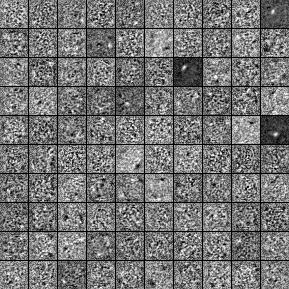
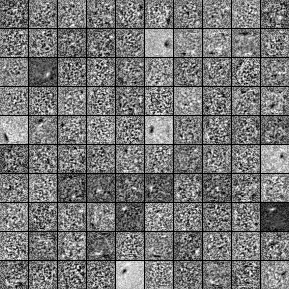
modified all but errors

diff --git a/liir/nlp/ml/nn/base/DenoisingAutoEncoderEx.py b/liir/nlp/ml/nn/base/DenoisingAutoEncoderEx.py
@@ -1,0 +1,109 @@
+from liir.nlp.ml.nn.base.DenoisingAutoEncoder import DenoisingAutoEncoder
+
+__author__ = 'quynhdo'
+import theano as th
+from liir.nlp.ml.nn.base.AutoEncoder import AutoEncoder
+from liir.nlp.ml.classifiers.linear.logistic import load_data
+try:
+    import PIL.Image as Image
+except ImportError:
+    import Image
+from liir.nlp.ml.classifiers.linear.utils import tile_raster_images
+from liir.nlp.ml.nn.base.Layer  import Layer,DenoisingLayer
+from liir.nlp.ml.nn.base.NNNet  import NNNet
+from liir.nlp.ml.nn.base.Functions import CrossEntroyCostFunction
+from theano.tensor.shared_randomstreams import RandomStreams
+import theano.tensor as T
+import numpy as np
+
+import timeit
+
+class DenoisingAutoEncoderEx(DenoisingAutoEncoder):
+    def __init__(self,nIn=700, nHidden=500, corruption_level=0.1,id="", initial_w=None, initial_b=None,input=None, input_type="matrix", output=None, output_type="matrix",cost_function=CrossEntroyCostFunction, full_x=None, knowledge = None):
+
+        DenoisingAutoEncoder.__init__(self,nIn, nHidden, corruption_level, id, initial_w, initial_b, input, input_type, output, output_type, cost_function)
+        if full_x is None:
+
+            self.full_x = T.matrix(name='full_input')
+        else:
+            self.full_x = full_x
+
+        if knowledge != None:
+            self.knowledge = knowledge
+        else:
+            self.knowledge = None
+
+        self.L=None
+
+    def get_cost_updates(self,learning_rate):
+        cost = self.cost_function(self.layers[len(self.layers)-1].output , self.y)
+        if self.L is not None:
+            cost = cost + self.L
+
+        if self.knowledge is not None:
+            for p in self.knowledge.eval()['pair']:
+                h1= self.getHiddenValue(p[0])
+                h2= self.getHiddenValue(p[1])
+                cost = cost + T.mean ((h1-h2)**2)
+
+        gparams = T.grad(cost, self.params)
+
+        updates = [
+            (param, param - learning_rate * gparam)
+            for param, gparam in zip(self.params, gparams)
+        ]
+
+        return (cost, updates)
+
+    def fit(self, train_data,  batch_size, training_epochs, learning_rate, ):
+
+        index = T.lscalar()
+      #  x = T.matrix('x')
+     #   if (self.connections[len(self.connections)-1].otype == Connection.Output_Type_SoftMax):
+     #       y = T.ivector('y')
+
+      #  if (self.connections[len(self.connections)-1].otype == Connection.Output_Type_Binary):
+      #      y = T.iscalar('y')
+      #  if (self.connections[len(self.connections)-1].otype == Connection.Output_Type_Real):
+       # y = T.matrix('y')
+
+        cost,updates=self.get_cost_updates(learning_rate)
+        train_da = th.function(
+        [index],
+        cost,
+        updates=updates,
+        givens={
+            self.x: train_data[index * batch_size: (index + 1) * batch_size],
+            self.y: train_data[index * batch_size: (index + 1) * batch_size],
+            self.knowledge : train_data
+            }
+        )
+        n_train_batches = (int) (train_data.get_value(borrow=True).shape[0] / batch_size)
+
+     #   n_train_batches =2
+        start_time = timeit.default_timer()
+        for epoch in range(training_epochs):
+        # go through trainng set
+            c = []
+            for batch_index in range(int(n_train_batches)):
+                c.append(train_da(batch_index))
+
+            print ('Training epoch %d, cost ' % epoch, np.mean(c))
+
+        end_time = timeit.default_timer()
+
+        training_time = (end_time - start_time)
+        print('Training time: %.2fm' % ((training_time) / 60.))
+
+
+if __name__ == "__main__":
+    dataset='/Users/quynhdo/Downloads/mnist.pkl'
+    datasets = load_data(dataset)
+    train_set_x, train_set_y = datasets[0]
+
+    knowledge = th.shared( {"pair":[(0,1),(3,4)]})
+    ae = DenoisingAutoEncoderEx(28*28,500, corruption_level=0.3, knowledge=knowledge)
+  #  ae.fit(train_set_x, 20, 5,0.1, {'pair':[(0,1), (1,2)]})
+
+    ae.fit(train_set_x, 20, 5,0.1)
+

diff --git a/liir/nlp/ml/nn/base/NNNet.py b/liir/nlp/ml/nn/base/NNNet.py
@@ -56,6 +56,8 @@ class NNNet:
         else:
             self.y = output
 
+   #     self.L=None
+
         if auto_create_connection:
             for i in range(len(layers)-1):
                 if initial_w is None:
@@ -69,6 +71,17 @@ class NNNet:
                     self.params=self.params+c.params
 
 
+    def setRegularization(self, name="l1", l_lamda = 0.0001):
+        self.L = 0
+        self.L_lamda = l_lamda
+        if name == "l1":
+
+            for conn in self.connections:
+                self.L += abs(conn.W).sum()
+
+        if name =="l2":
+            for conn in self.connections:
+                self.L += abs(conn.W ** 2).sum()
 
 
 
@@ -98,6 +111,10 @@ class NNNet:
     def get_cost_updates(self,learning_rate):
 
         cost = self.cost_function(self.layers[len(self.layers)-1].output , self.y)
+
+   #     if self.L is not None:
+
+    #        cost = cost + self.L_lamda * self.L
 
         gparams = T.grad(cost, self.params)
 
@@ -154,6 +171,14 @@ class NNNet:
     def predict(self, x):
         t=x
         for i in range(len(self.connections)):
+            t = self.connections[i].getOutputValue(t)
+
+
+        return t
+
+    def getHiddenValue(self, x):
+        t=x
+        for i in range(len(self.connections)-1):
             t = self.connections[i].getOutputValue(t)
 
 

diff --git a/liir/nlp/ml/nn/base/DenoisingAutoEncoder.py b/liir/nlp/ml/nn/base/DenoisingAutoEncoder.py
@@ -53,7 +53,10 @@ class DenoisingAutoEncoder(NNNet):
 
 
         self.connect(self.x)
+
         cost = self.cost_function(self.layers[len(self.layers)-1].output , self.y)
+      #  if self.L is not None:
+      #      cost = cost + self.L_lamda * self.L
 
         '''
         if self.knowledge != None:
@@ -78,8 +81,10 @@ class DenoisingAutoEncoder(NNNet):
 
 
 
-    def fit(self, train_data, batch_size, training_epochs, learning_rate, knowledge=None):
-        self.knowledge=knowledge
+    def fit(self, train_data, batch_size, training_epochs, learning_rate, knowledge=None, l=None, llamda=None):
+   #     if l is not None:
+   #         self.setRegularization(l, llamda)
+   #     self.knowledge=knowledge
         NNNet.fit(self, train_data, train_data, batch_size, training_epochs, learning_rate)
         image = Image.fromarray(
             tile_raster_images(X=self.connections[0].W.get_value(borrow=True).T,
